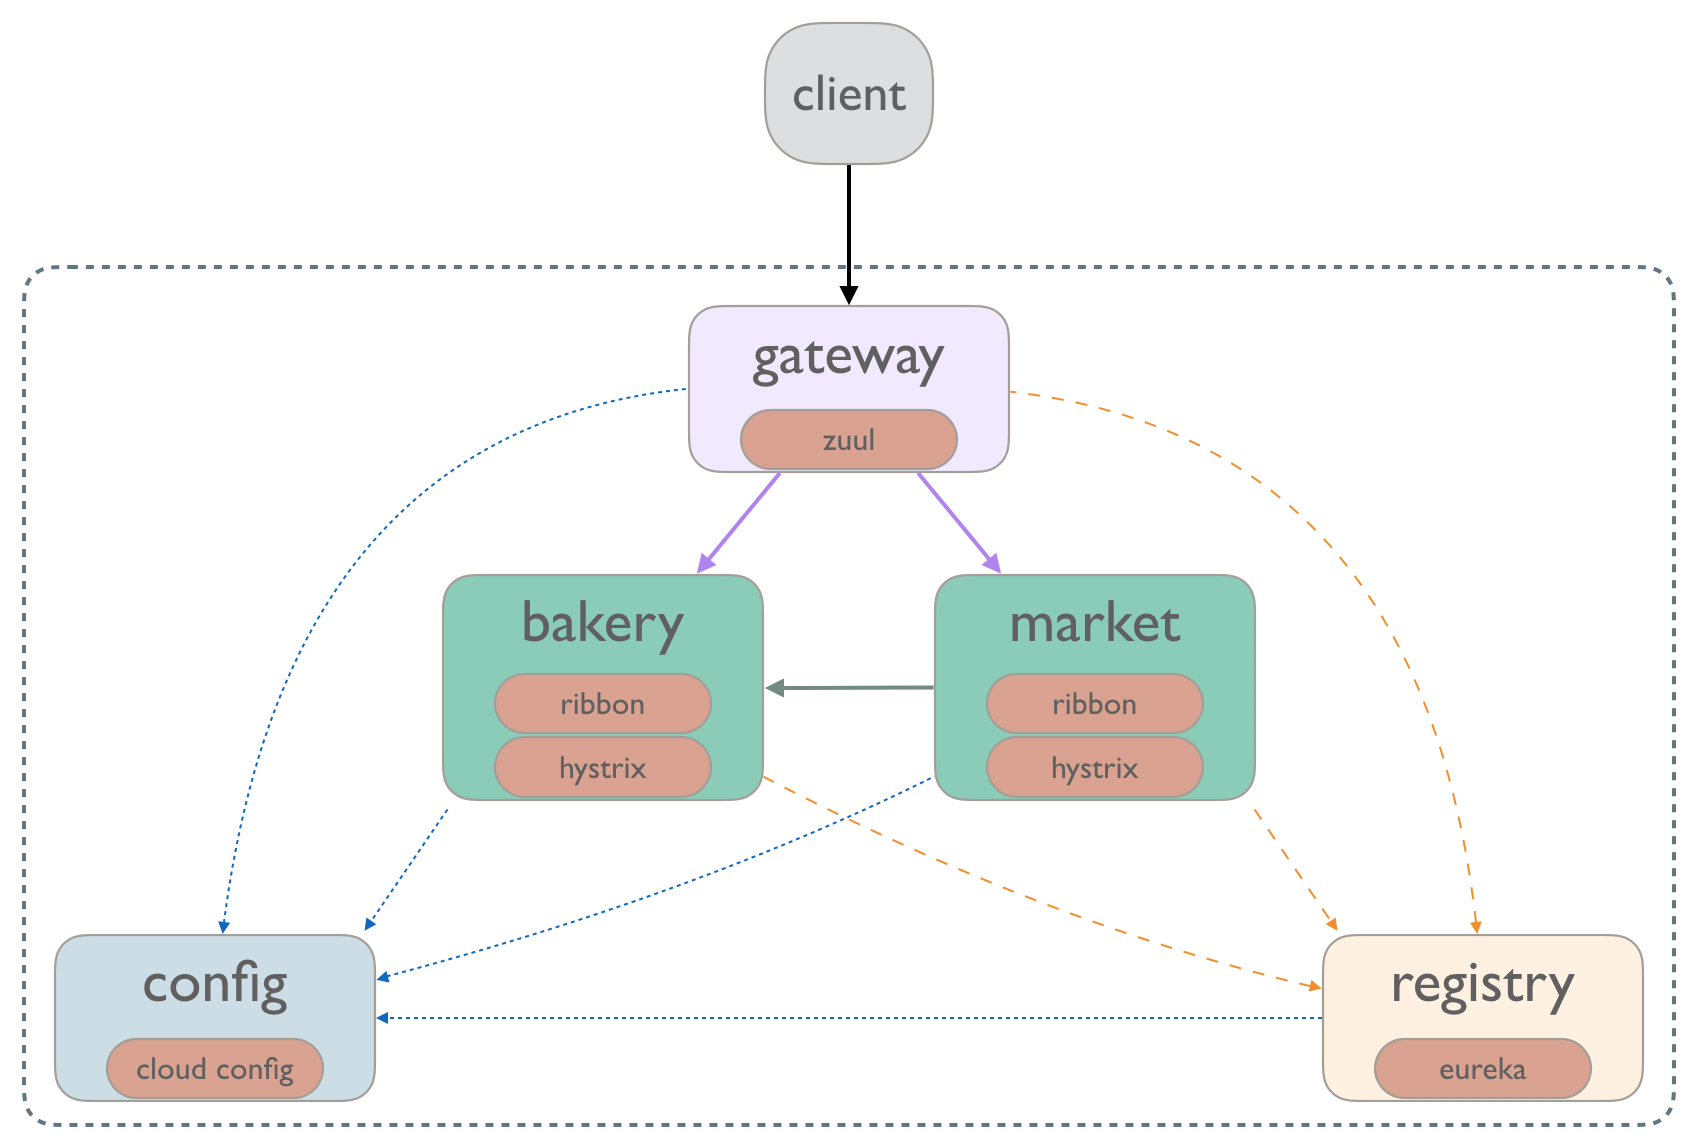
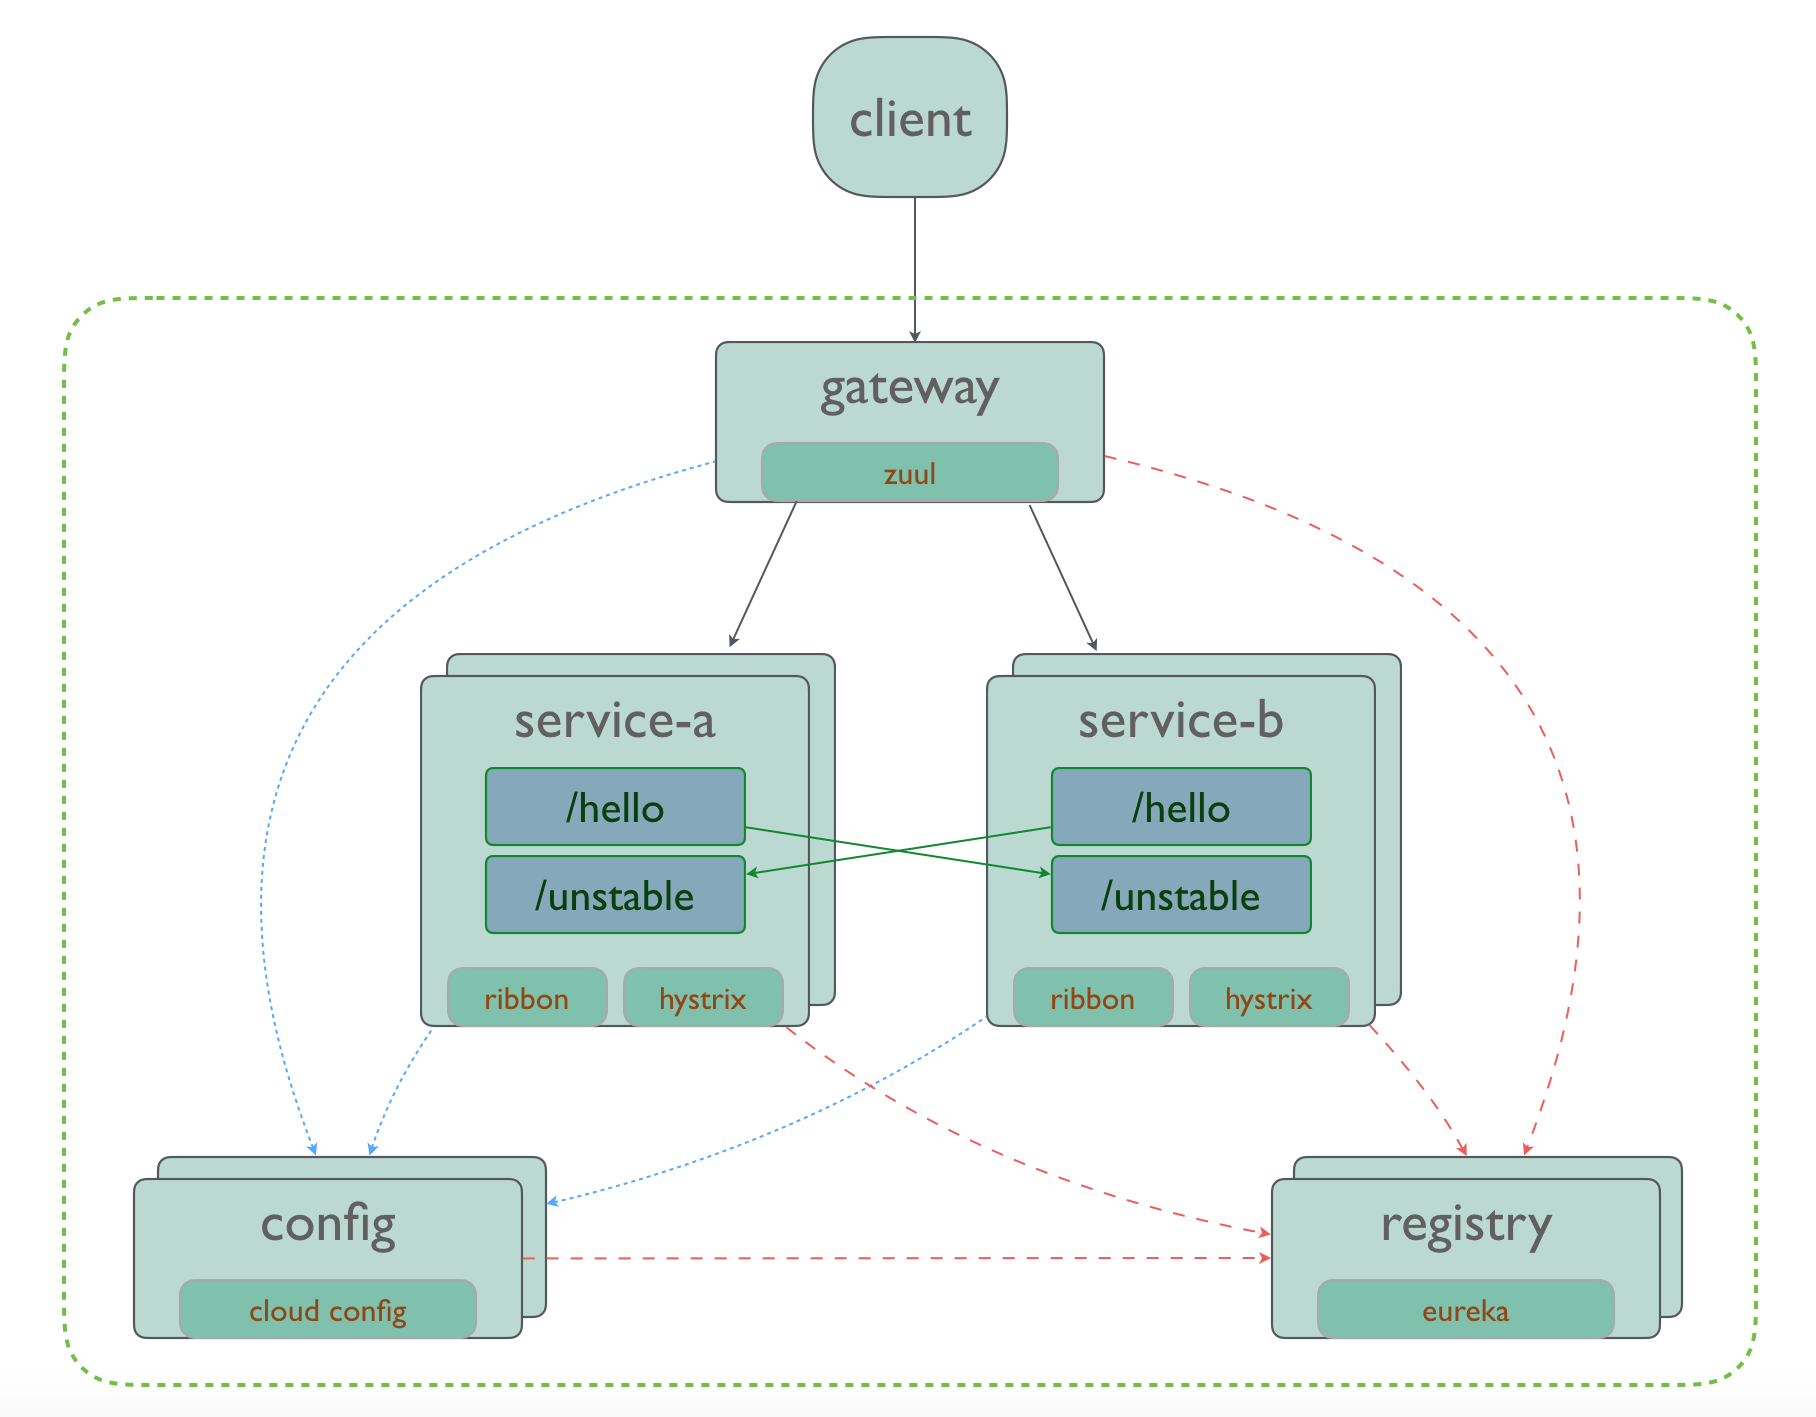
improve dockerfile

diff --git a/README.md b/README.md
@@ -8,37 +8,32 @@ An example for learning Spring Cloud.
 - **cloud-config** - usage of `spring cloud config`
 - **cloud-gateway** - usage of `spring cloud netflix zuul`
 - **cloud-registry** - usage of `spring cloud netflix eureka`
-- **cloud-service-a** - a microservice called a 
-- **cloud-service-b** - a microservice called b
+- **cloud-service-a** - service-a provides endpoints `/hello` and `/unstable`
+- **cloud-service-b** - service-b provides endpoints `/hello` and `/unstable`
 
-#### Start in Terminal
-Make sure all ports 8888, 8761, 8080, 8081, 8082 are available.
-Start each service directly in the following order:
-- `$ cd cloud-config && mvn spring-boot:run`
-- `$ cd cloud-registry && mvn spring-boot:run`
-- `$ cd cloud-gateway && mvn spring-boot:run`
-- `$ cd cloud-service-bakery && mvn spring-boot:run`
-- `$ cd cloud-service-market && mvn spring-boot:run`
-> If everything is ok, each service will be running with only one instance.
+#### Requirements
+- JDK 8
+- Maven 3.3.9+
+- Docker 1.12.0+
 
-#### Start in Docker
-Make sure `docker daemon` is running and port 8080 is available.
-- `$ mvn package`
-- `$ docker-compose up -d --scale config=2 --scale service-a=2 --scale service-b=2`
-> If everything is ok, the service `config` and `gateway` will be running with one instance,
-while the `registry`, `bakery` and `market` with three instances.
+#### How to Run
+Make sure the port 8080 is available.
+```
+$ mvn package
+$ docker-compose up --scale config=2 --scale service-a=2 --scale service-b=2
+```
+> It will take two or three minutes for all services are ready.
+> If everything is ok, each service will be running with 2 instances except `cloud-gateway`.
 
 #### Verify
-Vefiy services `bakery` and `market`.
-People can get bread at a bakery or at a market, however, the market makes the bakery as its bread supplier actually.
-Wait about two minutes to make sure all services have registered successfully, and:
-- `$ curl http://localhost:8080/a/hello?name=shuaicj`
-- `$ curl http://localhost:8080/b/hello?name=shuaicj`
-- `$ curl http://localhost:8080/market/breads/abcd?customer=shuaicj`
-> Repeat serveral times and verify multiple service instances are working.
+Repeat the following commands for several times:
+```
+$ curl http://localhost:8080/a/hello?name=shuaicj
+$ curl http://localhost:8080/b/hello?name=shuaicj
+```
+and check the content printed out:
+- Check the IPs of the same service. It means multiple service instances are working.
+- Check if `[FALLBACK]` appears. It means `Netflix Hystrix` is working.
 
-#### Stop in Terminal
-- `Ctrl + C`
-
-#### Stop in Docker
-- `$ docker-compose down`
+#### See Also
+[shuaicj/spring-cloud-tutorials](https://github.com/shuaicj/spring-cloud-tutorials)
